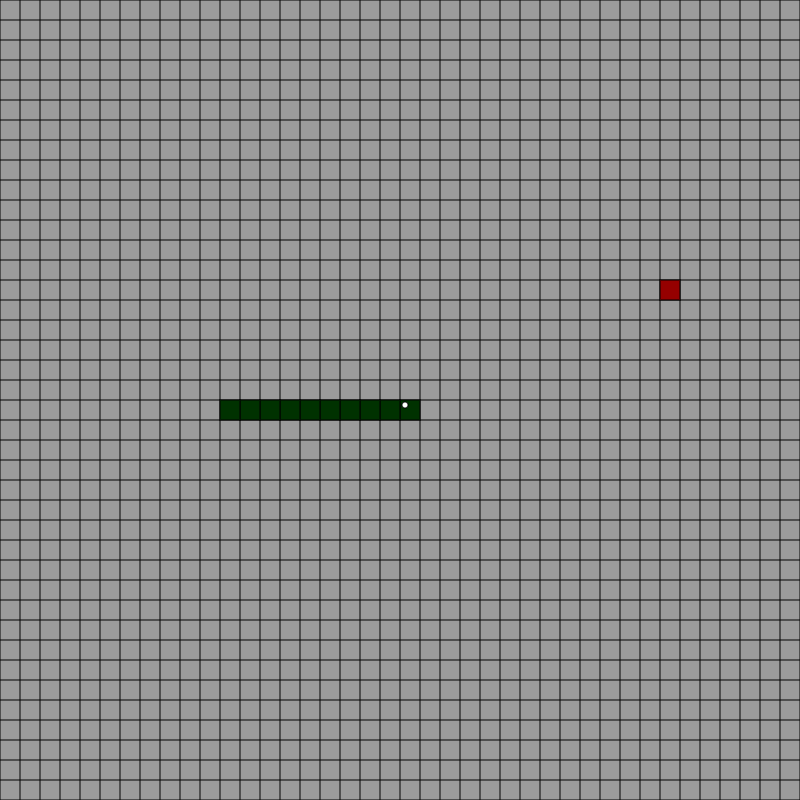
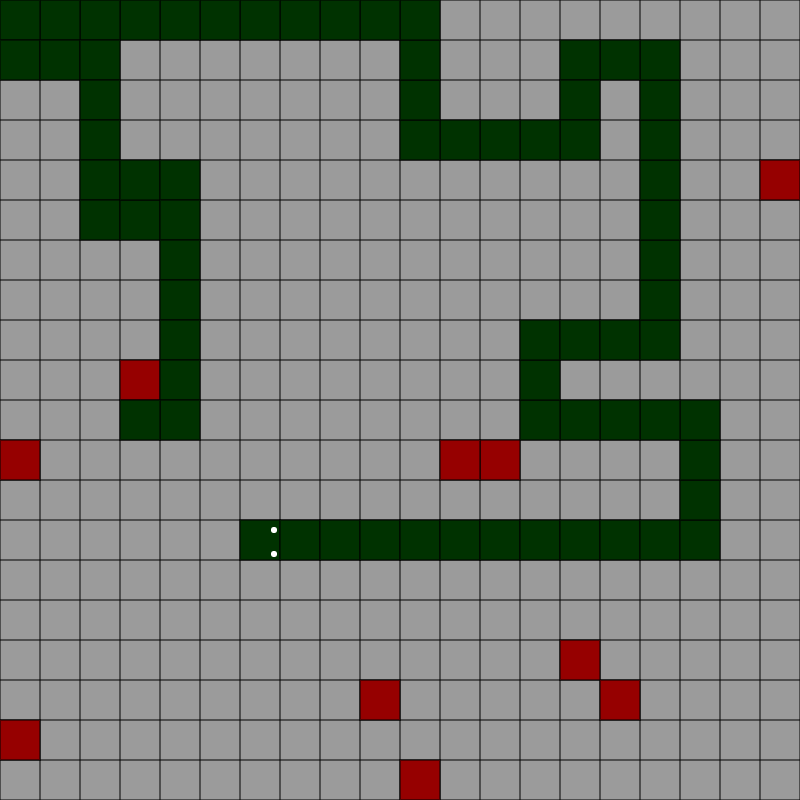
mas spawns de comida para snake

diff --git a/projects/snake/snake.js b/projects/snake/snake.js
@@ -4,9 +4,11 @@ function Snake(p) {
   this.speed = {col: 1, row: 0};
   this.moveCounter = 0;
   this.dirLocked = false;
-  this.moveDelay = 30;
+  this.moveDelay = 10;
+  var startCol = Math.floor(GRID * 0.55);
+  var midRow = Math.floor(GRID * 0.5);
   for (var i = 0; i < 10; i++) {
-    this.body.push({col: 21 - i, row: 20});
+    this.body.push({col: startCol - i, row: midRow});
   }
 }
 
@@ -38,7 +40,7 @@ Snake.prototype.crecer = function() {
 Snake.prototype.colisionPared = function() {
   var nc = this.body[0].col + this.speed.col;
   var nr = this.body[0].row + this.speed.row;
-  return nc < 0 || nc > 39 || nr < 0 || nr > 39;
+  return nc < 0 || nc >= GRID || nr < 0 || nr >= GRID;
 };
 
 Snake.prototype.colisionCuerpo = function() {
@@ -51,11 +53,14 @@ Snake.prototype.colisionCuerpo = function() {
 Snake.prototype.display = function(dead) {
   var p = this.p;
   p.fill(0, 50, 0);
+  var eye = Math.min(6, Math.max(3, Math.floor(CELL * 0.3)));
+  var a = CELL / 4;
+  var b = CELL - eye;
   for (var i = 0; i < this.body.length; i++) {
-    p.rect(this.body[i].col * 20, this.body[i].row * 20, 20, 20);
+    p.rect(this.body[i].col * CELL, this.body[i].row * CELL, CELL, CELL);
   }
-  var hx = this.body[0].col * 20;
-  var hy = this.body[0].row * 20;
+  var hx = this.body[0].col * CELL;
+  var hy = this.body[0].row * CELL;
   var dc = this.body[0].col - this.body[1].col;
   var dr = this.body[0].row - this.body[1].row;
   if (dead) {
@@ -63,17 +68,17 @@ Snake.prototype.display = function(dead) {
     p.strokeWeight(2);
     p.noFill();
     if (dc === 1) {
-      drawX(hx + 5, hy + 5);
-      drawX(hx + 5, hy + 14);
+      drawX(hx + a, hy + a);
+      drawX(hx + a, hy + b);
     } else if (dc === -1) {
-      drawX(hx + 14, hy + 5);
-      drawX(hx + 14, hy + 14);
+      drawX(hx + b, hy + a);
+      drawX(hx + b, hy + b);
     } else if (dr === -1) {
-      drawX(hx + 5, hy + 14);
-      drawX(hx + 14, hy + 14);
+      drawX(hx + a, hy + b);
+      drawX(hx + b, hy + b);
     } else if (dr === 1) {
-      drawX(hx + 5, hy + 5);
-      drawX(hx + 14, hy + 5);
+      drawX(hx + a, hy + a);
+      drawX(hx + b, hy + a);
     }
     p.noStroke();
   } else {
@@ -81,22 +86,23 @@ Snake.prototype.display = function(dead) {
     p.fill(255);
     p.noStroke();
     if (dc === 1) {
-      p.ellipse(hx + 5, hy + 5, 6, 6);
-      p.ellipse(hx + 5, hy + 14, 6, 6);
+      p.ellipse(hx + a, hy + a, eye, eye);
+      p.ellipse(hx + a, hy + b, eye, eye);
     } else if (dc === -1) {
-      p.ellipse(hx + 14, hy + 5, 6, 6);
-      p.ellipse(hx + 14, hy + 14, 6, 6);
+      p.ellipse(hx + b, hy + a, eye, eye);
+      p.ellipse(hx + b, hy + b, eye, eye);
     } else if (dr === -1) {
-      p.ellipse(hx + 5, hy + 14, 6, 6);
-      p.ellipse(hx + 14, hy + 14, 6, 6);
+      p.ellipse(hx + a, hy + b, eye, eye);
+      p.ellipse(hx + b, hy + b, eye, eye);
     } else if (dr === 1) {
-      p.ellipse(hx + 5, hy + 5, 6, 6);
-      p.ellipse(hx + 14, hy + 5, 6, 6);
+      p.ellipse(hx + a, hy + a, eye, eye);
+      p.ellipse(hx + b, hy + a, eye, eye);
     }
   }
 
   function drawX(x, y) {
-    p.line(x - 3, y - 3, x + 3, y + 3);
-    p.line(x + 3, y - 3, x - 3, y + 3);
+    var r = eye / 2;
+    p.line(x - r, y - r, x + r, y + r);
+    p.line(x + r, y - r, x - r, y + r);
   }
 };

diff --git a/projects/snake/sketch.js b/projects/snake/sketch.js
@@ -1,5 +1,8 @@
+var CELL = 40;
+var GRID = 20;
+
 var snakeSketch = function (p) {
-  var snake, food;
+  var snake, foods;
   var go = false;
   var pendingDir = null;
   var gameOver = false;
@@ -7,22 +10,25 @@ var snakeSketch = function (p) {
   var delayGO = 0;
 
   p.setup = function () {
-    p.createCanvas(800, 800);
+    p.createCanvas(GRID * CELL, GRID * CELL);
     p.frameRate(60);
     p.background(50);
     snake = new Snake(p);
-    food = new Food(p, 20, snake);
+    foods = [];
+    for (var i = 0; i < 10; i++) {
+      foods.push(new Food(p, CELL, snake));
+    }
   };
 
   p.draw = function () {
     p.background(155);
     p.stroke(0);
     p.strokeWeight(1);
-    for (var i = 0; i <= p.width; i += 20) {
+    for (var i = 0; i <= p.width; i += CELL) {
       p.line(0, i, p.width, i);
       p.line(i, 0, i, p.height);
     }
-    food.display();
+    for (var i = 0; i < foods.length; i++) foods[i].display();
     snake.display(gameOver);
     
     if (go && pendingDir) {
@@ -41,9 +47,14 @@ var snakeSketch = function (p) {
           gameOver = true;
           delayGO = 30;
           pendingDir = null;
-        } else if (snake.body[0].col === food.col && snake.body[0].row === food.row) {
-          snake.crecer();
-          food.respawn(snake);
+        } else {
+          for (var j = 0; j < foods.length; j++) {
+            if (snake.body[0].col === foods[j].col && snake.body[0].row === foods[j].row) {
+              snake.crecer();
+              foods[j].respawn(snake);
+              break;
+            }
+          }
         }
       }
     }
@@ -80,7 +91,10 @@ var snakeSketch = function (p) {
           return false;
         }
         snake = new Snake(p);
-        food = new Food(p, 20, snake);
+        foods = [];
+        for (var i = 0; i < 10; i++) {
+          foods.push(new Food(p, CELL, snake));
+        }
         go = true;
         gameOver = false;
         pendingDir = null;
